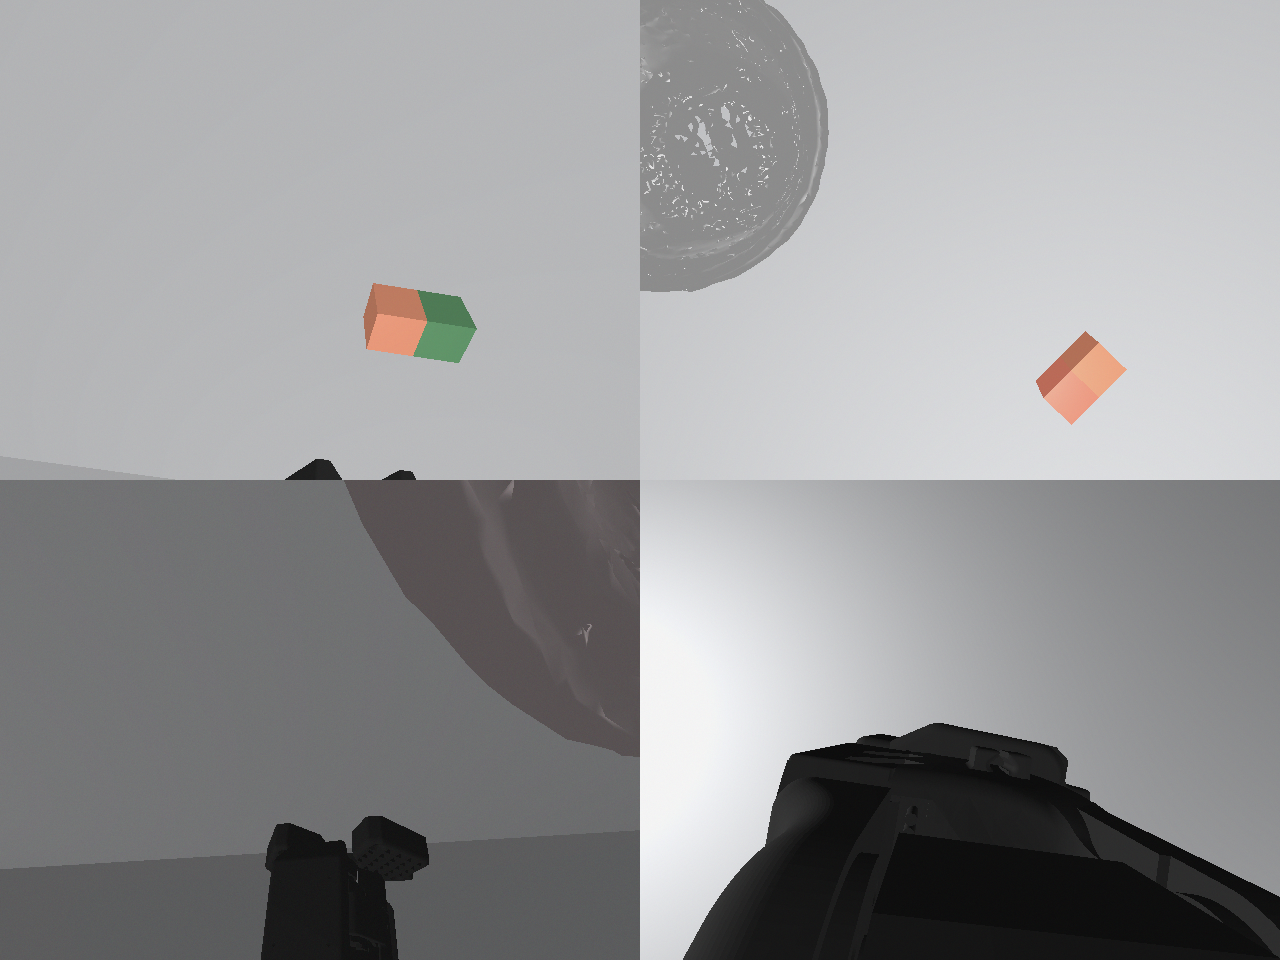
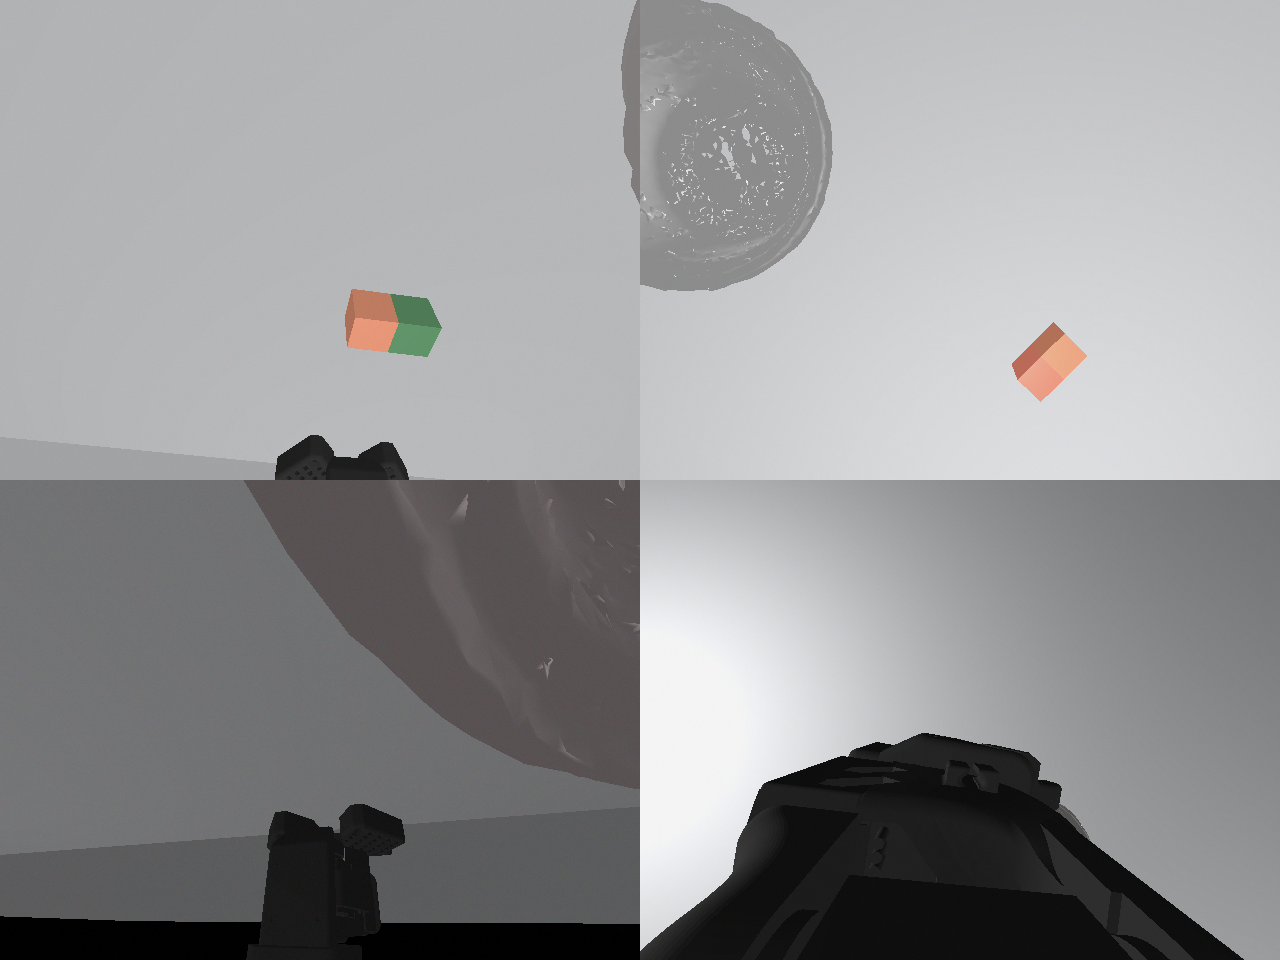
Wrist camera calibration: new mount + FOV, defaults match real arm
envs/base_random_env.py:
  - WRIST_CAMERA_BASE_POS (-0.0049, 0.0498, -0.0591) ->
                          ( 0.0001, 0.0498, -0.0691)
    x +5 mm shifts image content right so the gripper sits at the
    LEFT of the frame, matching the physical wrist-cam alignment on
    the SO101. z -10 mm pushes the camera ~10 mm along the optical
    axis (the local z direction empirically maps to forward).
  - WRIST_CAMERA_FOV 71° -> 82° (vertical fovy); at 640x480 that's
    ~109° horizontal — closer to the real Cv2Camera's wider FOV.

examples/visualize_sim.py:
  - Pass domain_randomization_config that zeroes wrist_camera_pos_noise
    and wrist_camera_rot_noise so the visualizer shows the exact
    configured mount across all 4 envs (other DR stays on).

vis_snapshot.png: reference frame for the new defaults (seed=1, 4 envs).

diff --git a/examples/visualize_sim.py b/examples/visualize_sim.py
@@ -95,6 +95,14 @@ def make_env(task: str, config: dict = CONFIG):
         human_render_camera_configs=render_camera_size,
         num_envs=config['num_envs'],
         domain_randomization=config['domain_randomization'],
+        # Zero the per-episode wrist-camera extrinsic jitter so what we see in
+        # the visualizer reflects the exact configured mount, with no DR
+        # offset shifting the framing each reset. Other DR (lighting, cube
+        # colours, frictions, image pipeline) is unaffected.
+        domain_randomization_config={
+            'wrist_camera_pos_noise': (0.0, 0.0, 0.0),
+            'wrist_camera_rot_noise': (0.0, 0.0, 0.0),
+        },
         reconfiguration_freq=None,
     )
 

diff --git a/envs/base_random_env.py b/envs/base_random_env.py
@@ -1066,9 +1066,9 @@ class WristCameraEnv(BaseRandomEnv):
     """
 
     # Base pose relative to gripper_link.
-    WRIST_CAMERA_BASE_POS = (-0.0049, 0.0498, -0.0591)
+    WRIST_CAMERA_BASE_POS = (0.0001, 0.0498, -0.0691)  # x +5 mm (from original -0.0049) — shifts image content right so gripper sits to the left of frame, matching real wrist cam.
     WRIST_CAMERA_BASE_ROT_RAD = (np.deg2rad(-90), np.deg2rad(91), np.deg2rad(-35.31))  # radians (roll, pitch, yaw)
-    WRIST_CAMERA_FOV = np.deg2rad(71)  # 71 degrees
+    WRIST_CAMERA_FOV = np.deg2rad(82)  # vertical FOV (SAPIEN fovy); at 640x480 → ~109° horizontal.
 
     def __init__(
         self,